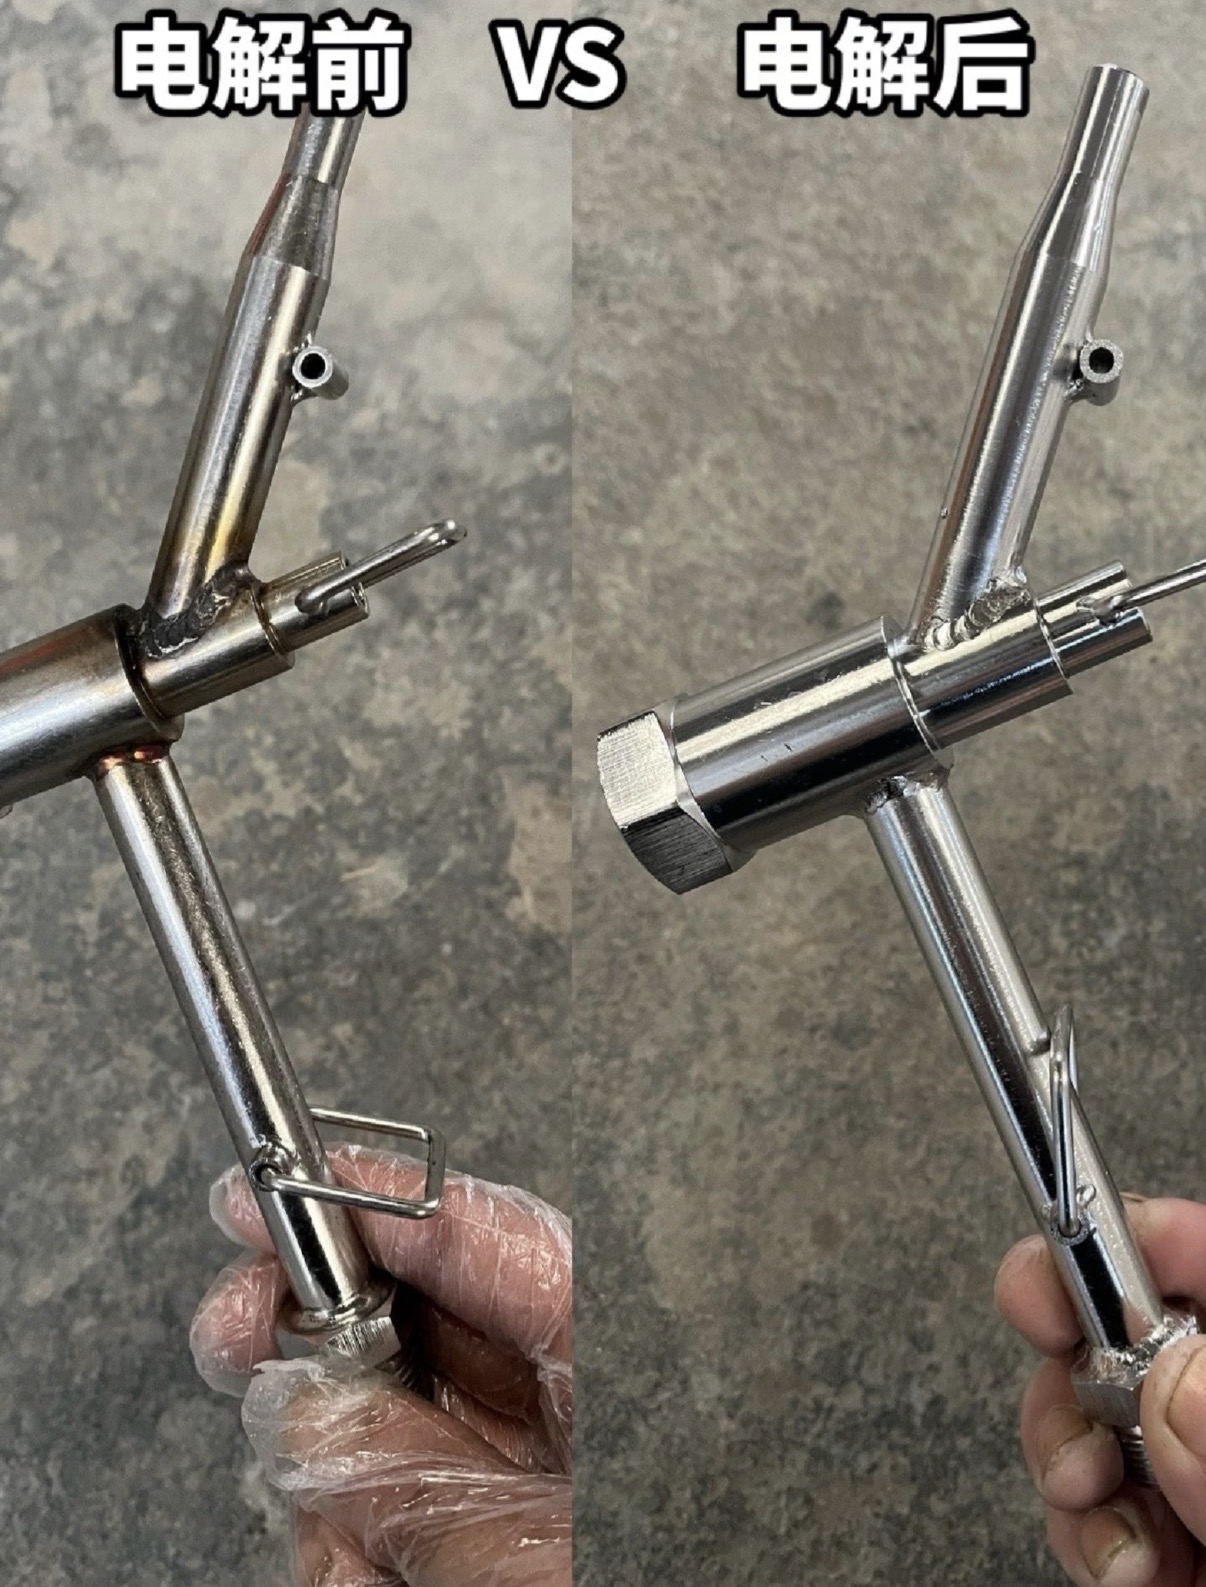
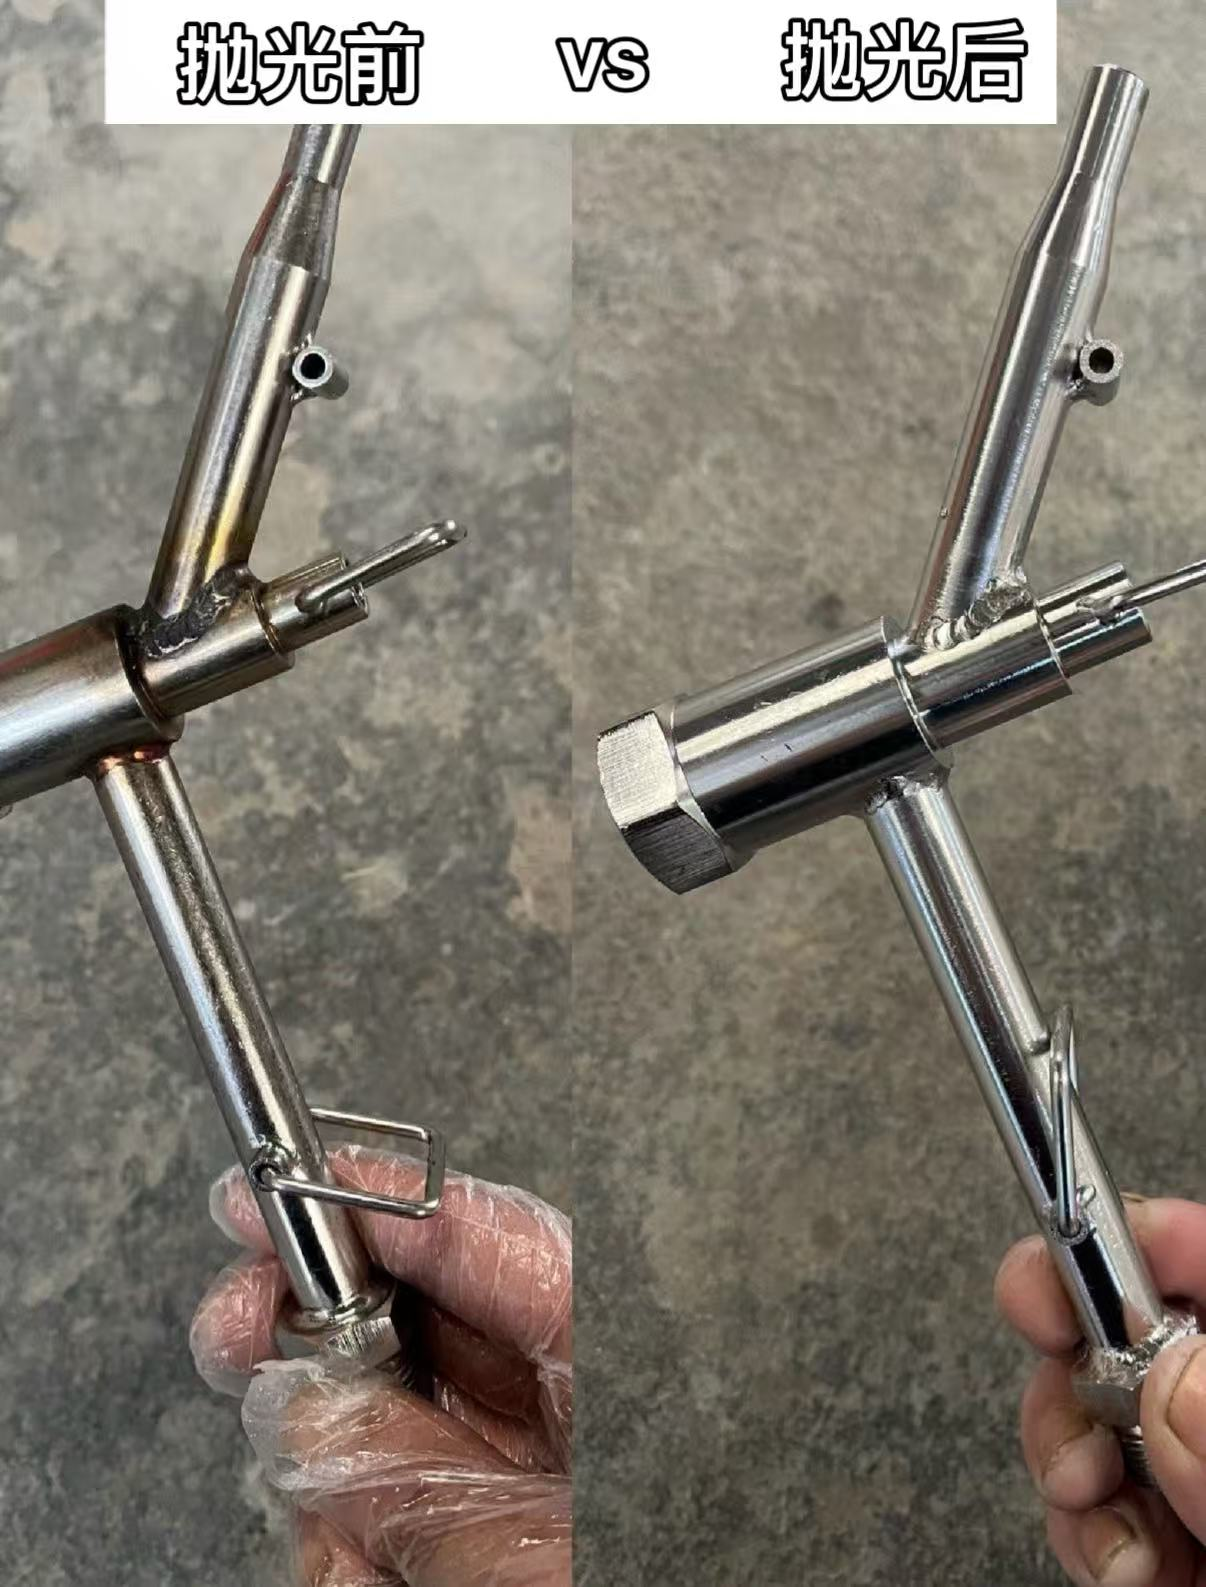
1111111

Changed region(s): [[0.0614, 0.0, 0.8897, 0.0926]]

diff --git a/arduino.html b/arduino.html
@@ -34,39 +34,6 @@
     <section class="pm-section">
         <div class="pm-step">
             <div class="step-header">
-                <span class="step-number">01</span>
-                <h2 class="step-title">Learning Open Source Tools</h2>
-                <p class="step-desc">学习开源工具</p>
-            </div>
-
-            <div class="step-description">
-                <p>Three code management and development tools are learned in this section: Lingma, GitHub, GitHub Desktop</p>
-            </div>
-
-            <div class="step-content-block">
-                <h3 class="content-subtitle">1.1 Tool Introduction</h3>
-                
-                <div class="tool-item">
-                    <h4 class="tool-name">1. Lingma</h4>
-                    <p class="tool-desc">A professional code editing assistant. It supports code formatting, real-time syntax checking and intelligent code prompts. It improves programming efficiency and reduces syntax errors.</p>
-                </div>
-
-                <div class="tool-item">
-                    <h4 class="tool-name">2. GitHub</h4>
-                    <p class="tool-desc">The world's leading open-source code hosting platform. It provides code storage, version control, project collaboration and open-source sharing services. It is an important platform for developers to communicate and learn excellent open-source projects.</p>
-                </div>
-
-                <div class="tool-item">
-                    <h4 class="tool-name">3. GitHub Desktop</h4>
-                    <p class="tool-desc">A graphical desktop tool matched with GitHub. It replaces complex command lines, and supports local code submission, branch management, remote repository synchronization, project pull and push. It is user-friendly for beginners.</p>
-                </div>
-            </div>
-        </div>
-    </section>
-
-    <section class="pm-section">
-        <div class="pm-step">
-            <div class="step-header">
                 <span class="step-number">02</span>
                 <h2 class="step-title">Hardware & Experiment Overview</h2>
                 <p class="step-desc">硬件与实验概述</p>

diff --git a/project-management.html b/project-management.html
@@ -57,6 +57,10 @@
             </div>
 
             <div class="step-description">
+                <p>This is a personal repository for demonstration purposes; the school provides group repositories.</p>
+            </div>
+
+            <div class="step-description">
                 <p>To start, we need to create a repository to access github.com. Setting the repository name first, and as we continue to create our repository, we need to set our visibility to Public, allowing Internet users to access it. And be sure to include a README file in the repository, as this is where we can provide a comprehensive project description.</p>
             </div>
 
@@ -72,8 +76,13 @@
                 </div>
                 
                 <div class="image-card">
-                    <img src="image111/1-6.PNG" alt="步骤6" class="step-image">
+                    <img src="image111/1-6.jpg" alt="步骤6" class="step-image">
                     <p class="image-caption">图片 1-6</p>
+                </div>
+                
+                <div class="image-card">
+                    <img src="image111/1-41.jpg" alt="步骤7" class="step-image">
+                    <p class="image-caption">图片 1-41</p>
                 </div>
             </div>
 
@@ -448,7 +457,7 @@
             </div>
 
             <div class="step-description">
-                <p>Tell Lingma we need to divide it into four parts—home page, members, assignments, and the final major project.</p>
+                <p>Tell Lingma we need to <span style="color: #FFD700;">divide it into four parts—home page, members, assignments, and the final major project</span>.</p>
             </div>
 
             <div class="step-images centered">

diff --git a/material.html b/material.html
@@ -191,6 +191,11 @@
                         <img src="image333/3-6.jpg" alt="Aerogel Material" class="step-image">
                         <p class="image-caption">图片 3-6</p>
                     </div>
+                    
+                    <div class="image-card">
+                        <img src="image333/3-33.jpg" alt="Aerogel Application" class="step-image">
+                        <p class="image-caption">图片 3-33</p>
+                    </div>
                 </div>
             </div>
 